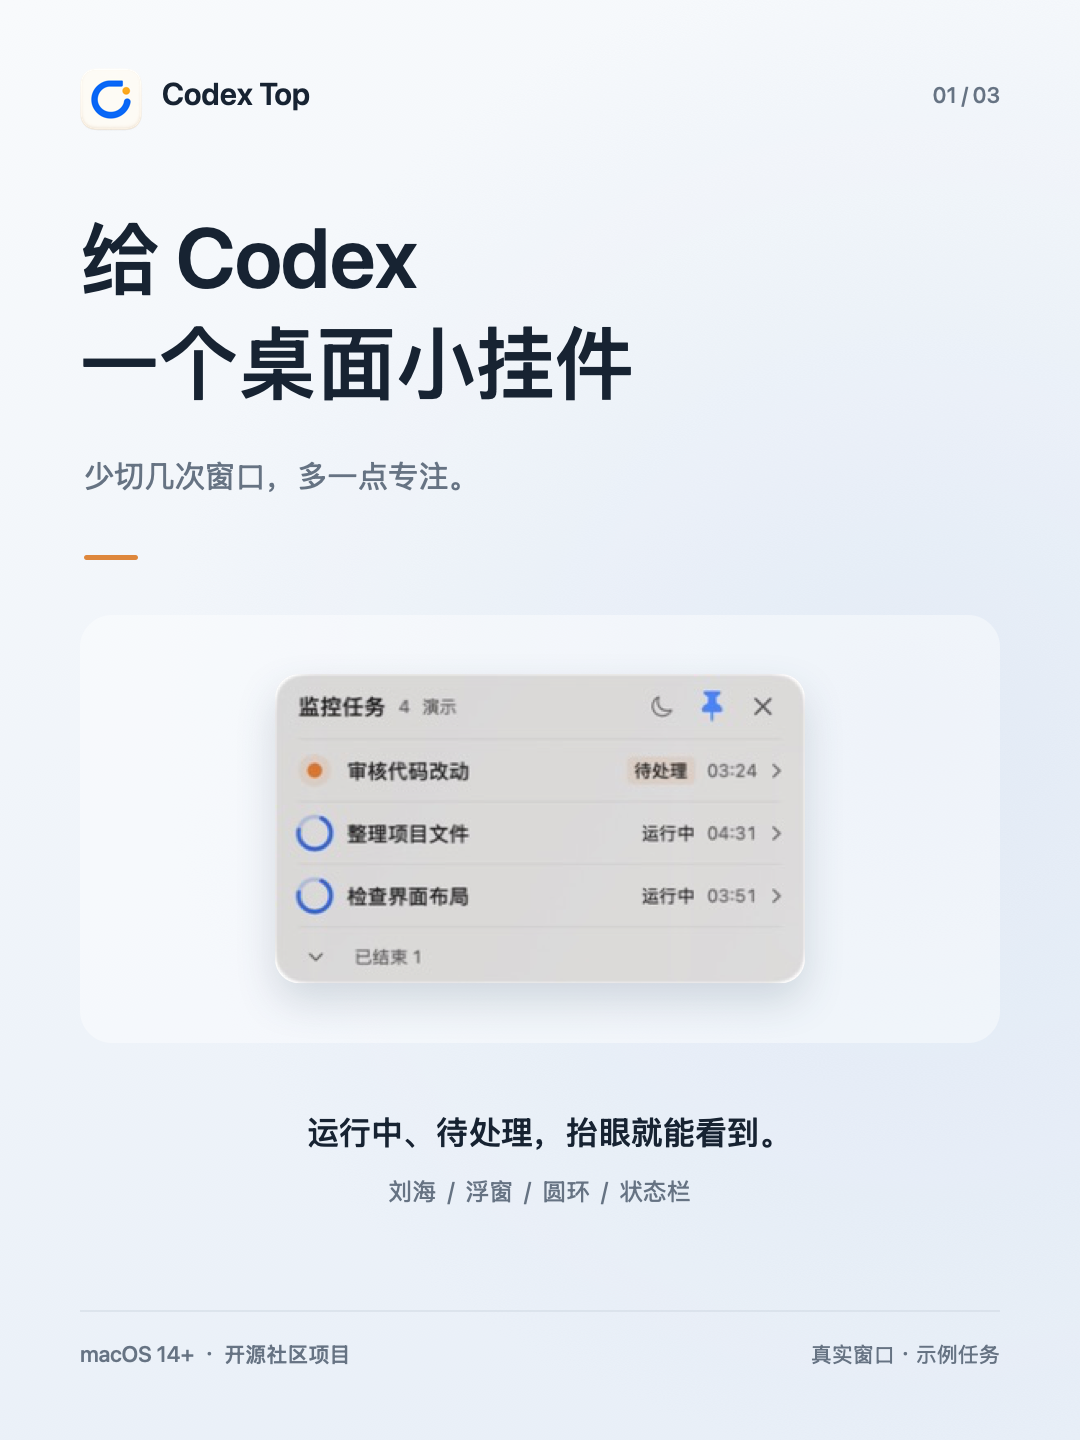
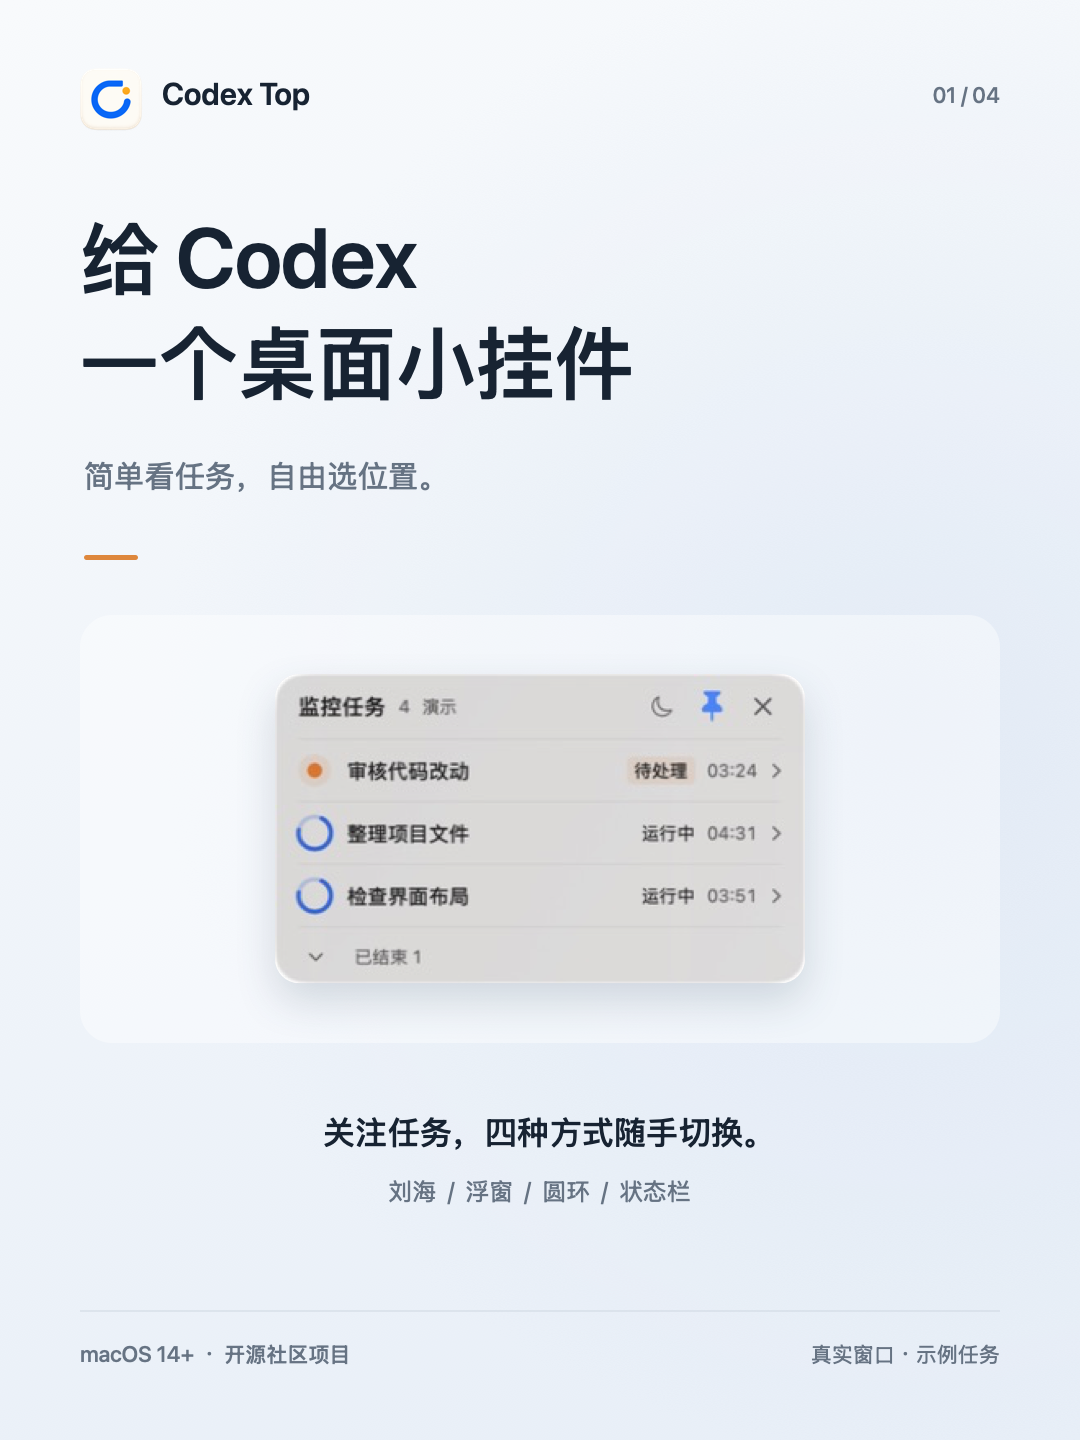
docs: emphasize simple monitoring and compare display options

Changed region(s): [[0.275, 0.75, 0.7028, 0.8125], [0.0611, 0.3125, 0.4278, 0.3438]]

diff --git a/docs/share/xiaohongshu/render.swift b/docs/share/xiaohongshu/render.swift
@@ -65,12 +65,12 @@ func brand(_ number: Int) {
     let logo = NSImage(contentsOf: repo.appendingPathComponent("Resources/AppIcon.png"))!
     logo.draw(in: rect(75,63,72,72))
     label("Codex Top",162,75,31,ink,.semibold,600,55)
-    label(String(format:"%02d / 03",number),830,82,22,secondary,.medium,170,40,alignment:.right)
+    label(String(format:"%02d / 04",number),830,82,22,secondary,.medium,170,40,alignment:.right)
 }
 func footer(_ number: Int) {
     line(80,1311,1000,1311,color(0xCED7E1))
     label("macOS 14+  ·  开源社区项目",80,1341,22,secondary,.medium,600,40)
-    label("真实窗口 · 示例任务",670,1341,22,secondary,.regular,330,40,alignment:.right)
+    label(number == 4 ? "公开资料 · 2026.09.12" : "真实窗口 · 示例任务",670,1341,22,secondary,.regular,330,40,alignment:.right)
 }
 func card(_ filename: String, _ number: Int, _ body: () -> Void) throws {
     let bitmap = NSBitmapImageRep(bitmapDataPlanes: nil, pixelsWide: Int(width), pixelsHigh: Int(height),
@@ -86,12 +86,12 @@ func card(_ filename: String, _ number: Int, _ body: () -> Void) throws {
 try card("01-cover.png",1) {
     label("给 Codex",80,207,84,ink,.semibold,920,120)
     label("一个桌面小挂件",80,311,84,ink,.semibold,920,120)
-    label("少切几次窗口，多一点专注。",84,456,32,secondary,.regular,900,70)
+    label("简单看任务，自由选位置。",84,456,32,secondary,.regular,900,70)
     box(84,555,54,5,orange,radius:2.5)
     // A quiet display stage, with no personal desktop or invented app UI.
     box(80,615,920,428,color(0xFFFFFF,0.42),radius:32)
     photo("floating-light.jpg",275,674,530,24)
-    label("运行中、待处理，抬眼就能看到。",80,1111,34,ink,.medium,920,60,alignment:.center)
+    label("关注任务，四种方式随手切换。",80,1111,34,ink,.medium,920,60,alignment:.center)
     label("刘海  /  浮窗  /  圆环  /  状态栏",80,1176,25,secondary,.regular,920,50,alignment:.center)
 }
 
@@ -124,4 +124,33 @@ try card("03-details.png",3) {
     line(80,1153,1000,1153,color(0xD1DBE6))
     label("只读本地任务记录，不上传任务内容。",84,1185,26,ink,.medium,920,55)
     label("状态以本机记录为准；回复和批准仍在 Codex 中完成。",84,1232,21,secondary,.regular,920,45)
+}
+
+try card("04-comparison.png",4) {
+    label("简单一点，",80,205,76,ink,.semibold,920,110)
+    label("也自由一点。",80,301,76,ink,.semibold,920,110)
+    label("专注 Codex 任务，提供四种显示方式。",84,429,30,secondary,.regular,920,65)
+    box(80,536,920,69,color(0xFFFFFF,0.55),radius:14)
+    label("工具",104,554,23,secondary,.medium,240,45)
+    label("主要侧重",335,554,23,secondary,.medium,335,45)
+    label("主要显示入口",698,554,23,secondary,.medium,275,45)
+    let rows: [(String,String,String)] = [
+        ("Atoll","音乐、计时、系统信息","刘海 / 锁屏组件"),
+        ("CodexBar","多平台额度与用量","菜单栏 / 桌面组件"),
+        ("CodexNotch","Codex 额度与任务","刘海 / 无刘海回退")
+    ]
+    for (index,row) in rows.enumerated() {
+        let y: CGFloat = 634 + CGFloat(index) * 105
+        label(row.0,104,y,28,ink,.semibold,245,50)
+        label(row.1,335,y+3,24,ink,.regular,355,50)
+        label(row.2,698,y+3,23,secondary,.regular,290,50)
+        line(104,y+70,976,y+70,color(0xD2DCE7))
+    }
+    box(80,969,920,135,color(0xD8E5F5,0.86),radius:20)
+    label("Codex Top",104,990,31,blue,.semibold,290,55)
+    label("专注任务监控，关注列表共用",402,997,26,ink,.medium,570,50)
+    label("刘海  /  常驻浮窗  /  44pt 圆环  /  仅状态栏",104,1056,27,ink,.medium,850,55)
+    label("各有侧重；以上按公开说明整理，未经竞品实机横测。",84,1135,21,secondary,.regular,920,45)
+    label("来源  github.com/Ebullioscopic/Atoll",84,1190,18,secondary,.regular,920,35)
+    label("github.com/steipete/CodexBar  ·  github.com/fengdwx/codex-notch",84,1224,18,secondary,.regular,920,40)
 }

diff --git a/docs/share/xiaohongshu/README.md b/docs/share/xiaohongshu/README.md
@@ -1,14 +1,15 @@
 # Codex Top 小红书分享素材
 
-日期：2026-09-12。建议按 01 → 02 → 03 上传，标题和正文见 [小红书文案](小红书文案.md)。本目录仅为待分享素材，没有代用户发布到小红书。
+日期：2026-09-12。建议按 01 → 02 → 03 → 04 上传，标题和正文见 [小红书文案](小红书文案.md)，竞品说明与来源见 [对比依据](竞品对比.md)。本目录仅为待分享素材，没有代用户发布到小红书。
 
 | 图片 | 内容 |
 |---|---|
 | [01 封面](posters/01-cover.png) | 软件名称、常驻浮窗与主要用途 |
 | [02 显示方式](posters/02-modes.png) | 刘海展开和 44pt 圆环 |
 | [03 任务状态](posters/03-details.png) | 完整任务面板、待处理优先和数据边界 |
+| [04 同类工具对比](posters/04-comparison.png) | Atoll、CodexBar、CodexNotch 与本项目的功能侧重和显示入口 |
 
-三张图片均为 1080 × 1440 PNG（3:4）。浅灰蓝背景、留白、阴影和说明文字属于分享排版；应用区域来自真实打包窗口，不是重绘的界面或 AI 生成截图。截图按比例摆放，圆环在图中放大展示，实际仍为 44pt。
+四张图片均为 1080 × 1440 PNG（3:4）。浅灰蓝背景、留白、阴影和说明文字属于分享排版；前三张的应用区域来自真实打包窗口，不是重绘的界面或 AI 生成截图。截图按比例摆放，圆环在图中放大展示，实际仍为 44pt。第四张按项目公开文档对比侧重，不是竞品实机截图或性能排名。
 
 ## 截图来源与隐私
 
@@ -18,7 +19,7 @@
 - 最终采用浅色截图，源文件位于 [screenshots](screenshots/)。本轮在内置 Retina 刘海屏拍摄；这不替代外接屏、动画帧率或完整功能验收。
 - 拍摄期间先退出真实实例，再打开截图副本。结束后副本已退出并保留在隐藏测试目录，真实版恢复为原来的圆环、深色、90%。原偏好在恢复前逐字节核对一致；Demo 原偏好也已还原。
 - 不包含真实任务标题、对话正文、本机完整路径、账号、凭据或真实用量。公开图片保留“真实窗口 · 示例任务”说明，应用内演示标识也保留。
-- 5 张源截图与 3 张成图经过目视检查、OCR 隐私关键词及图片元数据检查，没有检出本机路径、私人账号或敏感元数据。拍摄鼠标提示服务已清理，收尾仅保留系统“应用程序”中的一个真实实例；关注和排除列表保持一致。
+- 5 张源截图与当前 4 张成图经过目视检查、OCR 隐私关键词及图片元数据检查，没有检出本机路径、私人账号或敏感元数据。拍摄鼠标提示服务已清理，收尾仅保留系统“应用程序”中的一个真实实例；关注和排除列表保持一致。对比修订复用前轮截图，没有再次操作用户桌面或切换应用模式。
 
 ## 重新导出
 
@@ -30,4 +31,4 @@ swift docs/share/xiaohongshu/render.swift
 
 使用 macOS AppKit 排版导出，源截图不改字、不锐化、不重绘。小图的清晰度受原始窗口截图分辨率限制，1080 × 1440 指排版画布尺寸，不代表原窗口以这个分辨率捕获。更换截图时应重新核对来源、隐私与窗口边界。
 
-本轮 `swift test` 110 项通过，`swift build -c release` 通过。三张成图进行了实际渲染、逐张目视检查和文字边界检查；未改动软件功能或 Release 附件。
+本轮 `swift test` 110 项通过，`swift build -c release` 通过。四张成图进行了实际渲染、目视检查和文字边界检查；未改动软件功能或 Release 附件。分享主题调整为“简单看任务，自由选位置”：说明具体操作与四种模式，不宣称“最简单”“显示方式最多”或未经测量的性能优势。

diff --git a/docs/share/xiaohongshu/竞品对比.md b/docs/share/xiaohongshu/竞品对比.md
@@ -1,0 +1,29 @@
+# 简单看任务，自由选位置
+
+核对日期：2026-09-12。用途是为分享文案说明产品侧重。范围为各项目公开 README 与 Codex Top 当前代码及窗口截图，未安装、操作或测量竞品；“简单”是本项目的设计目标，不是完成横向可用性测试后的排名。
+
+| 工具 | 公开说明中的主要侧重 | 主要显示入口 | 与 Codex Top 的侧重点差异 |
+|---|---|---|---|
+| [Atoll](https://github.com/Ebullioscopic/Atoll#highlights) | 音乐、计时、剪贴板和系统信息等综合功能 | 刘海交互与锁屏组件 | 适合希望刘海整合多种日常工具的使用方式；Codex Top 集中于 Codex 任务。 |
+| [CodexBar](https://github.com/steipete/CodexBar#features) | 多平台额度、重置时间、用量与费用信息 | macOS 菜单栏、WidgetKit 桌面组件 | 适合跨平台查看额度和用量；Codex Top 的展示重点是关注任务及待处理提醒。 |
+| [CodexNotch](https://github.com/fengdwx/codex-notch#the-experience) | Codex 额度、重置时间和任务状态 | 刘海与悬停展开卡片，无刘海时回退 | 与本项目较接近；Codex Top 明确提供共用关注列表的四种显示模式。 |
+| [Codex Top](../../../README.md#功能) | Codex 任务关注、状态提醒，也提供账户额度入口 | 刘海、常驻浮窗、44pt 圆环、仅状态栏 | 用搜索、多选、自动加入减少反复选任务的操作，按工作习惯切换同一份列表的位置。 |
+
+以上是各项目文档列出的主要入口，不是穷尽全部功能的支持/不支持矩阵。CodexBar 也有简洁界面、桌面组件及更多功能，不能写成“其他产品都复杂”或“只能用菜单栏”。Atoll 指 `Ebullioscopic/Atoll`，不混用同名项目或其他分支的 AI 会话功能。CodexNotch 的额度环/波浪球是刘海额度指示器，不能直接等同本项目可拖动的桌面任务圆环。
+
+## 分享时强调什么
+
+**简单**：专注任务监控。选择关注任务，新建并开始的任务默认自动加入；待处理优先显示，已结束可折叠。不把“简单”写成零前提：需要本机 Codex 的任务记录，账户额度还需要已登录的官方 CLI。
+
+**多种方式**：四种模式共用一份关注列表。希望持续看到列表就用浮窗，希望占地小就用圆环，也可选择刘海或仅状态栏。切换位置不必重新选一遍任务。
+
+适合对外的一句话：**Codex Top 是一个专注 Codex 任务监控的原生 Mac 小工具，用简单的操作，在刘海、浮窗、圆环和状态栏之间切换同一份关注列表。**
+
+## 来源
+
+- [Atoll README](https://github.com/Ebullioscopic/Atoll/blob/dev/ReadMe.md)：Highlights、Quick Start、Settings。综合功能与锁屏组件的依据。
+- [CodexBar README](https://github.com/steipete/CodexBar/blob/main/README.md)：Why、Features、macOS first run。多平台额度、费用与 WidgetKit 的依据。
+- [CodexNotch README](https://github.com/fengdwx/codex-notch/blob/main/README.md)：The experience、Make it yours。任务/额度、悬停展开、无刘海回退的依据。
+- Codex Top：[使用说明](../../usage.md)、`PanelPlacement` 四种枚举、`TaskStore.selected`、`MonitoringPolicy` 自动关注与选择规则，以及本目录实际窗口截图。
+
+功能信息会随版本变化；发布新一轮对比前应重新核对。未比较 CPU、内存、速度、稳定性、隐私优劣或安装便利程度。

diff --git a/docs/share/xiaohongshu/小红书文案.md b/docs/share/xiaohongshu/小红书文案.md
@@ -1,17 +1,23 @@
-# 给 Codex 做了个桌面小挂件
+# 给 Codex 做个简单的桌面小挂件
 
 最近做了一个原生 macOS 小工具：**Codex Top**。
 
-同时跑几个 Codex 任务时，总要切回去看：还在运行，还是已经在等我确认？于是把关注的任务放到了屏幕边上，抬眼就能看一眼进展。
+同时跑几个 Codex 任务时，总要切回去看：还在运行，还是已经在等我确认？我想把这件事做得简单一点。
 
-它可以放在刘海附近，也可以变成常驻浮窗、小圆环，或者只留在状态栏。
+**简单看任务，自由选位置。**
 
-🔵 运行中的任务，显示状态和计时。
-🟠 需要回复或确认的任务，优先排在前面。
-📌 支持搜索、多选，按自己的节奏关注任务。
-🫧 浅色玻璃 / 深色主题，可拖动、可调整显示比例。
+关注正在做的任务，运行和待处理状态集中显示；新建并开始的任务默认自动加入，历史任务也能搜索、多选。
 
-只读本地任务记录，不上传任务内容。状态以本机记录为准，回复和批准仍然在 Codex 里完成。
+同一份关注列表，可以在四种显示方式之间切换：
+
+- **刘海模式**：放在屏幕顶部，悬停展开。
+- **常驻浮窗**：一直放在旁边，拖到顺手的位置。
+- **圆环模式**：收成 44pt 小圆环，需要时再点开。
+- **仅状态栏**：收起桌面面板，从菜单栏查看。
+
+看过几款同类工具的公开介绍：CodexBar 侧重多平台额度和用量，CodexNotch 把 Codex 额度与任务放到刘海附近，Atoll 则提供音乐、计时、系统信息等综合功能。Codex Top 更贴近我的需求：**专注 Codex 任务监控，用简单的操作选择关注内容和显示方式。**
+
+浅色玻璃 / 深色主题，可调整显示比例。只读本地任务记录，不上传任务内容；状态以本机记录为准，回复和批准仍在 Codex 里完成。
 
 目前支持 macOS 14+，已经开源。还在持续打磨，欢迎同样在用 Codex 的朋友试试。
 
@@ -19,6 +25,6 @@ GitHub：**BuTangTang / Codex-Top**
 
 [项目与下载入口](https://github.com/BuTangTang/Codex-Top)
 
-配图是实际软件窗口，任务为内置示例，背景另行排版，不包含私人桌面或真实账户额度。独立社区项目，与 OpenAI 没有官方关联。
+配图中的软件窗口使用内置示例任务，背景另行排版，不含私人桌面或真实账户额度。对比按 2026-09-12 各项目公开说明整理，未做竞品实机横测；来源见 [对比依据](竞品对比.md)。独立社区项目，与 OpenAI 没有官方关联。
 
 #Mac软件 #macOS #Codex #AI编程 #独立开发 #开源项目 #效率工具

diff --git a/docs/STATUS.md b/docs/STATUS.md
@@ -2,6 +2,8 @@
 
 最后更新：2026-09-12。接续先读本文件，再读阶段清单和验收记录。
 
+2026-09-12 分享定位与竞品对比：按用户要求突出“简单、显示方式多”，核对 Atoll（Ebullioscopic）、CodexBar（steipete）和 CodexNotch（fengdwx）的公开 README，整理功能侧重与主要显示入口，明确资料对比不是竞品实机或性能横测。封面与文案改为“简单看任务，自由选位置”，新增第 4 张对比竖图；四种模式共用关注列表作为具体卖点。复用此前 90% 合成窗口截图，未再切换真实应用。110 项测试、release 构建、实际渲染与隐私检查通过；素材入口和来源见 [分享说明](share/xiaohongshu/README.md)。下一步按用户反馈调整分享内容，尚未代发小红书。
+
 2026-09-12 小红书分享素材：使用已安装 v0.1.0 build 2 的独立 Demo 副本拍摄真实窗口，程序去签名比对一致。用户反馈 120% 太大后，最终重拍为 90%，圆环保持 44pt；采用浅色窗口、浅灰蓝背景和留白，整理三张 1080×1440 竖图及介绍文案。只捕获合成任务窗口，不含真实桌面、任务或账户额度；候选中带鼠标提示的深色图已排除。真实版已恢复为原圆环/深色/90%，恢复前原偏好逐字节一致，截图副本退出，Demo 偏好还原。110 项测试及 release 构建通过；本轮没有修改产品代码或安装包，不补称外接屏和完整动画验收。素材与检查范围见 [分享说明](share/xiaohongshu/README.md)。下一步按用户对成图的反馈调整，素材尚未代发小红书。
 
 2026-09-11 Logo 接入与本机安装：用户已确认蓝色 C 形圆环与橙色圆点 Logo。源图、标准 ICNS 构建和 `CFBundleIconFile` 已接入，版本维持 `0.1.0`、构建号增至 `2`。110 项测试、release/通用构建、严格签名与安装包一致性通过；Finder 已显示新图标。最终安装在系统“应用程序”，启动台只读索引唯一记录及书签目标已核对，实际启动台网格受 CUA 超时限制未目视确认；仅一个真实实例。用户随后改为常驻浮窗、浅色、90% 并反馈文字偏糊，已在真实窗口对比 90%/100%，对比时切到 100%，收尾读回用户当前比例为 90% 并保留，关注与排除列表均保留；文字渲染代码未改，尚无用户确认。详情见 [Logo 安装验收](validation/app-icon.md)。既有公开 Release 附件保持原构建，下一步根据用户反馈处理文字清晰度。
